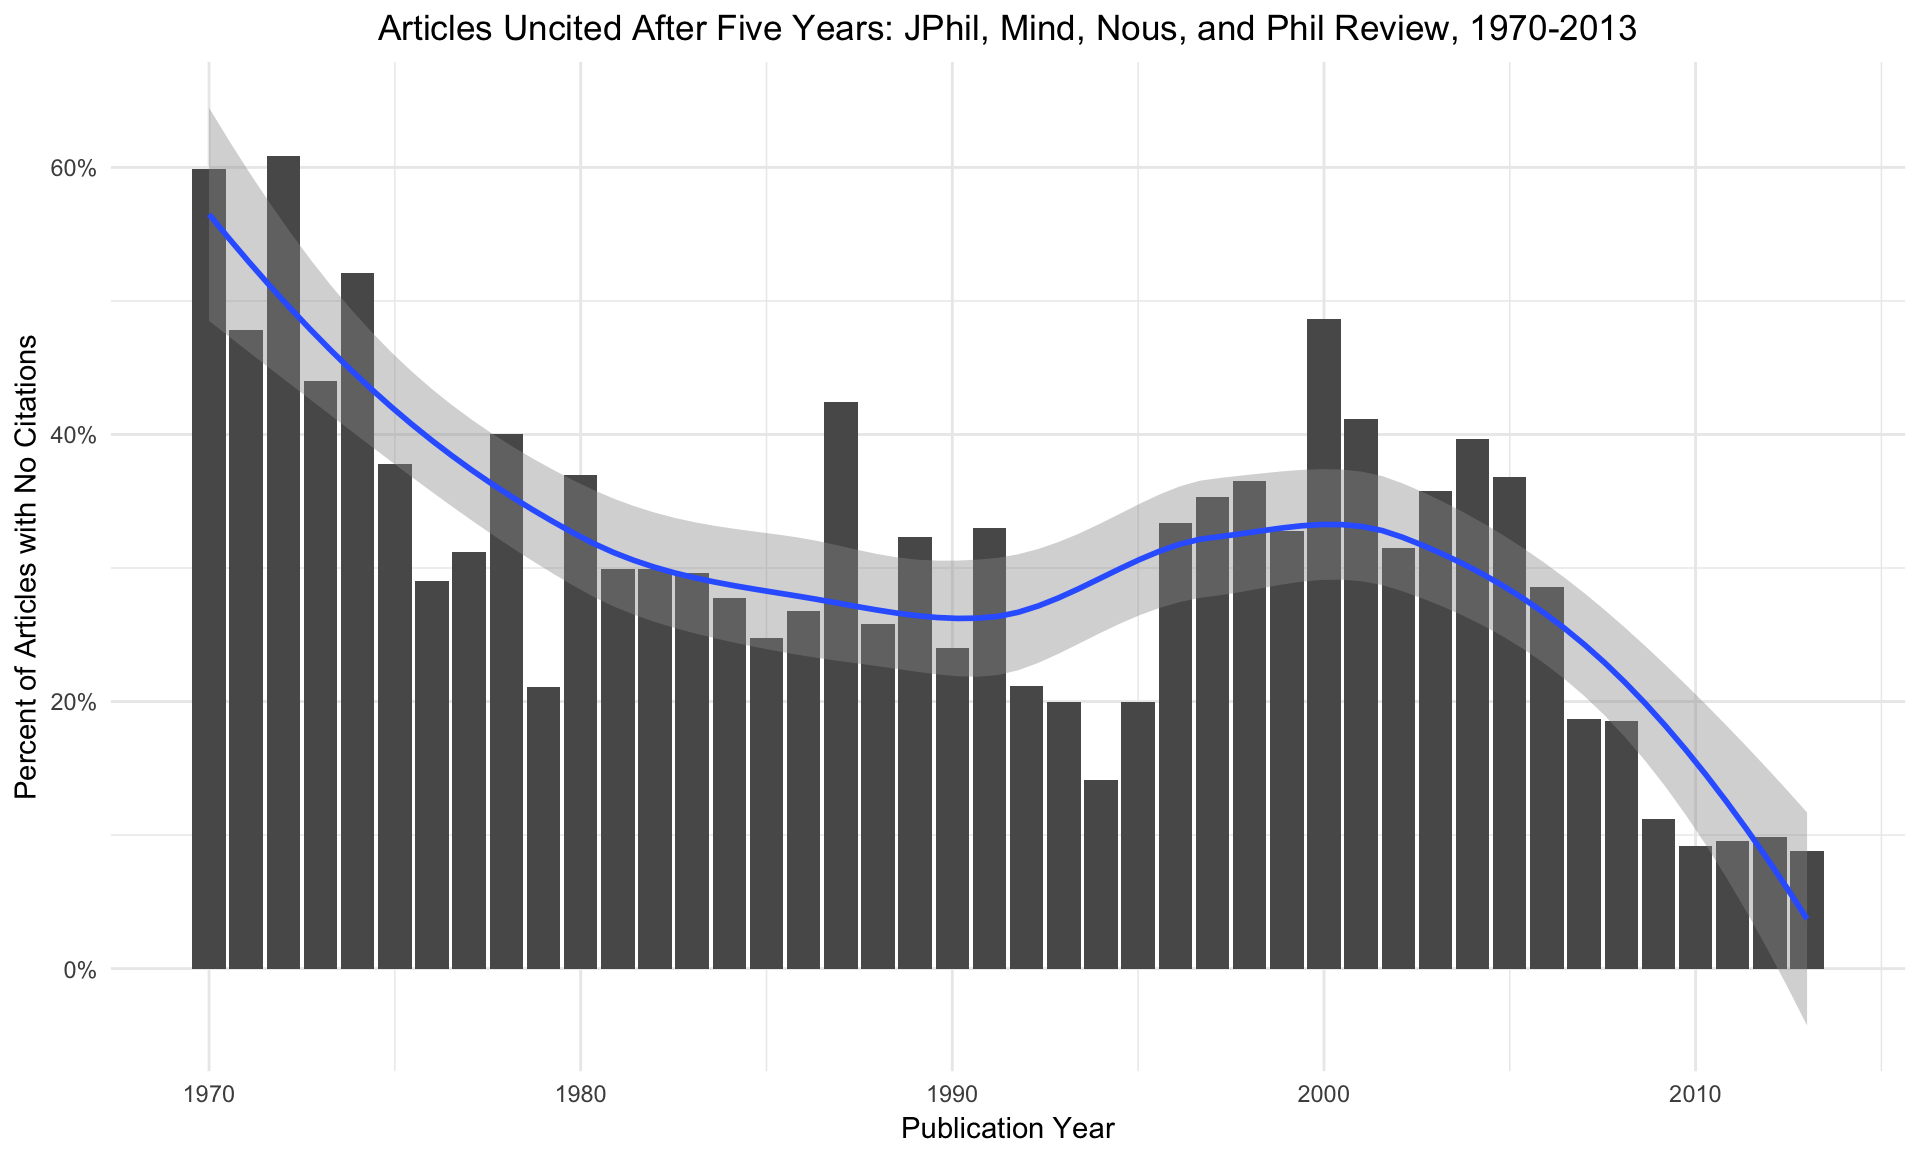
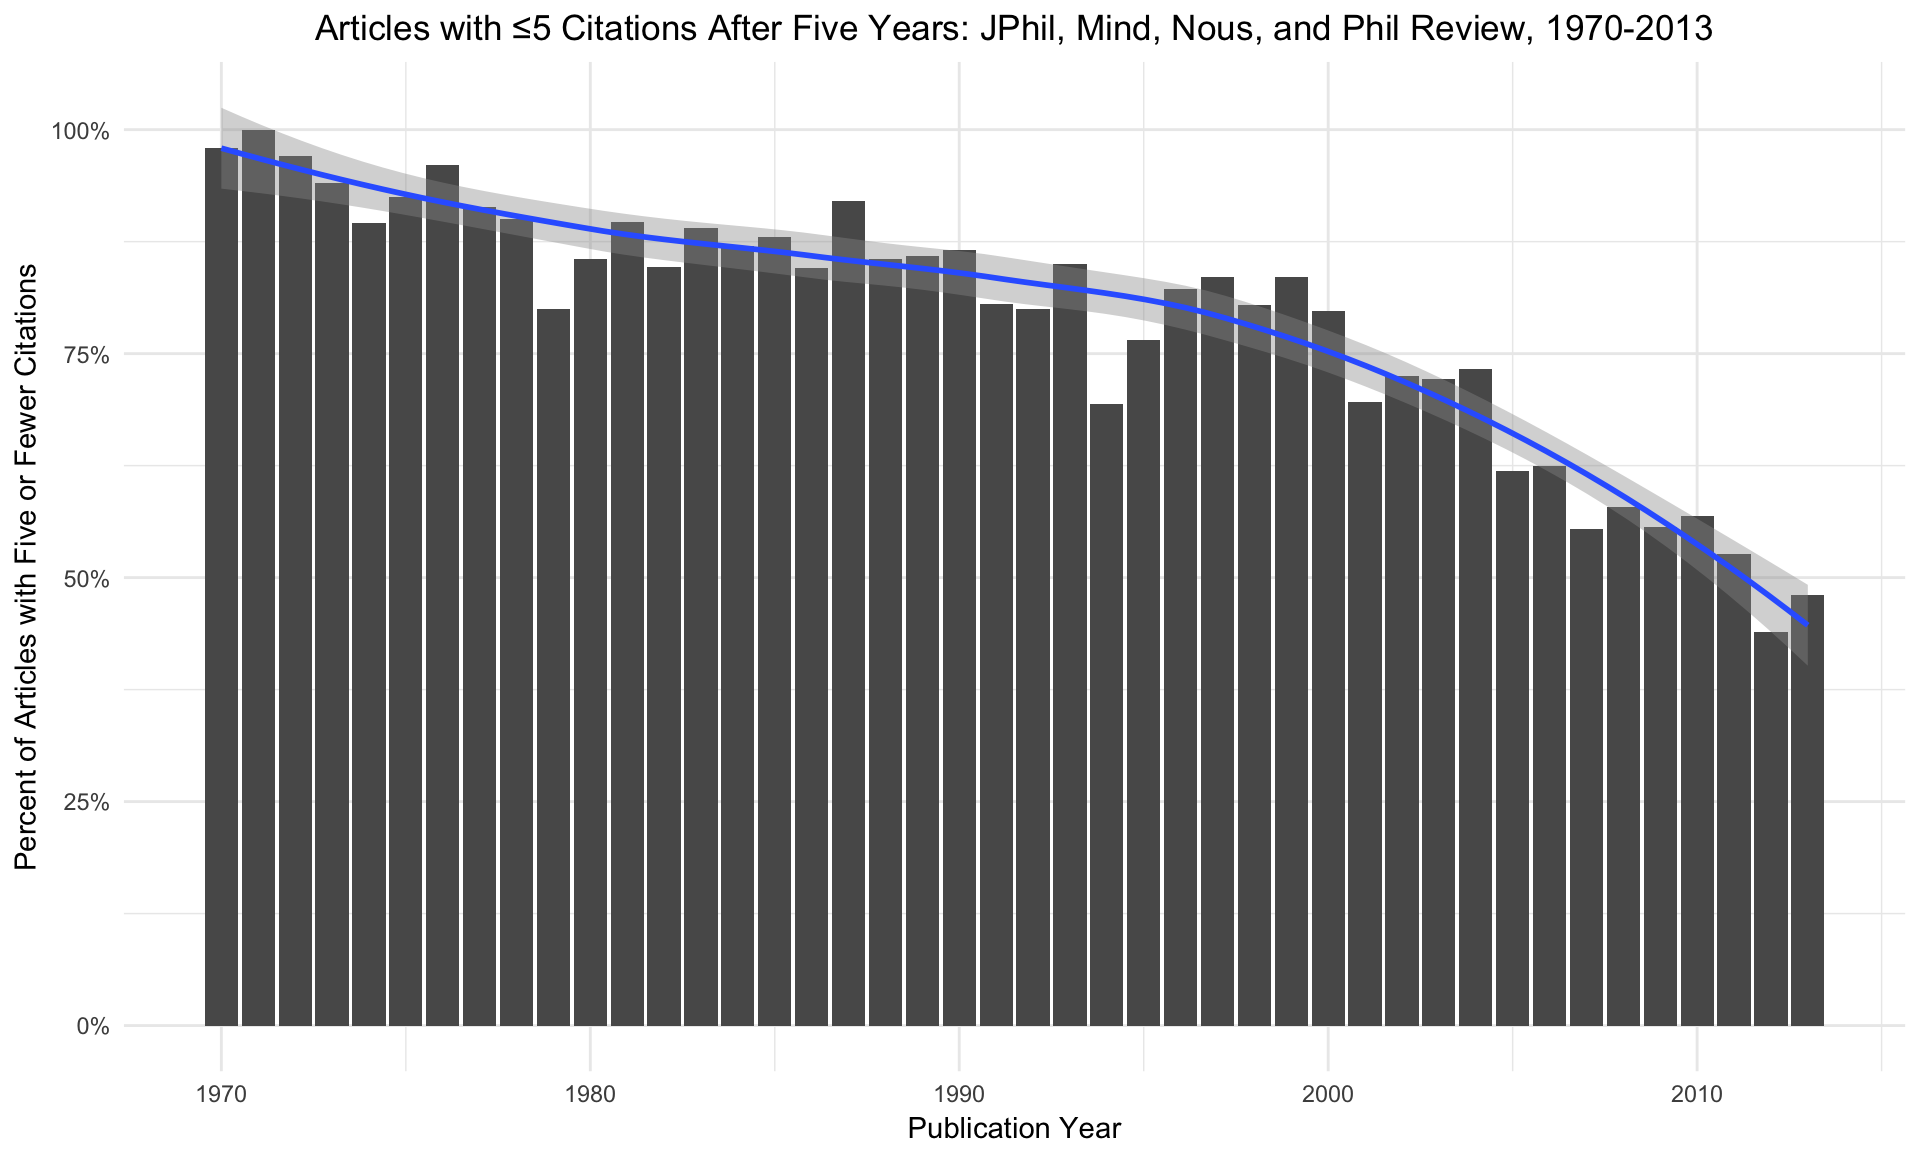
correct some data: remove unmarked supplemental papers

diff --git a/post/Where Are They Now The Healy 2100/index.html b/post/Where Are They Now The Healy 2100/index.html
@@ -218,8 +218,8 @@ turns out they&rsquo;re making a big difference.</p>
 
 <p><img src="/img/where_are_they_now_the_healy_2100/unnamed-chunk-6-1.png" alt="" /></p>
 
-<p>Now only 4.5% of our 1,694 papers have no citations to date, and just
-31.5% have five or fewer.</p>
+<p>Now only 3.8% of our 1,677 papers have no citations to date, and just
+30.9% have five or fewer.</p>
 
 <h1 id="sliding-windows">Sliding Windows</h1>
 
@@ -231,28 +231,34 @@ paper&rsquo;s publication.</p>
 
 <p>So, how many citations did these papers accrue just within five years of
 being published? Looking at only the &ldquo;core&rdquo; papers again (no
-supplements), 15.2% had no citations within five years of publication,
-and 69.9% had five or fewer.</p>
+supplements), 14.4% had no citations within five years of publication,
+and 69.6% had five or fewer.</p>
 
-<p>Once again that&rsquo;s higher than the 11% (respectively 50%) found by
+<p>That&rsquo;s still a bit higher than the 11% (respectively 50%) found by
 Weatherson. So we have to ask: are things changing? Are recent papers in
 these journals accruing citations faster?</p>
 
 <p>It seems so. Here are the &ldquo;uncitation&rdquo; rates for the years 1993&ndash;2013:</p>
 
-<p><img src="/img/where_are_they_now_the_healy_2100/unnamed-chunk-8-1.png" alt="" /> And here
-are the &ldquo;five or fewer citations&rdquo; rates:
-<img src="/img/where_are_they_now_the_healy_2100/unnamed-chunk-9-1.png" alt="" /></p>
+<p><img src="/img/where_are_they_now_the_healy_2100/unnamed-chunk-8-1.png" alt="" /></p>
 
-<p><strong>Update</strong>: Eric Schliesser pointed out to me what should have been obvious here, namely the internet. When Google took over the search engine industry around the year 2000, there was a citation boom across the board. You can see the effect more clearly if we zoom out to a longer timespan, starting at 1970:</p>
+<p>And here are the &ldquo;five or fewer citations&rdquo; rates:</p>
+
+<p><img src="/img/where_are_they_now_the_healy_2100/unnamed-chunk-9-1.png" alt="" /></p>
+
+<p><strong>Update</strong>: Eric Schliesser pointed out to me what should have been obvious here, namely the internet. When Google took over the search engine industry around the year 2000, there was a citation boom across the board. So you&rsquo;d naturally expect 2012 to be a very different year than 1993 as far as uncitation goes.</p>
+
+<p>At first I thought the data plainly vindicated the &ldquo;Google effect&rdquo; hypothesis, and I had some plots up here to show as much. But it turned out Web of Science had snuck a bunch of supplemental <em>Phil Issues</em>/<em>Phil Perspectives</em> papers past me unmarked!</p>
+
+<p>With those removed, the Google effect isn&rsquo;t looking so big. Here&rsquo;s the long view, from 1970 to 2013:</p>
+
+<p><img src="/img/where_are_they_now_the_healy_2100/unnamed-chunk-10-1.png" alt="" /></p>
+
+<p>Apparently papers with zero citations after five years have been declining for a while now. There does still seem to be a significant Google effect in the &ldquo;five or fewer&rdquo; measure:</p>
 
 <p><img src="/img/where_are_they_now_the_healy_2100/unnamed-chunk-11-1.png" alt="" /></p>
 
-<p>And it&rsquo;s even plainer when we look at the &ldquo;five citations or fewer&rdquo; rates:</p>
-
-<p><img src="/img/where_are_they_now_the_healy_2100/unnamed-chunk-12-1.png" alt="" /></p>
-
-<p>In neither case does Google seem to be clearly the whole story. But it does look like a pretty significant part, especially for the 1993–2013 window we&rsquo;ve been looking at.</p>
+<p>But it still looks like there were changes before Google. Does this reflect a growing profession? An increasing number of publications? Longer bibliographies? Just idiosyncracies of Web of Science&rsquo;s indexing? Something else? I&rsquo;m not sure.</p>
 <div class="footnotes">
 
 <hr />
